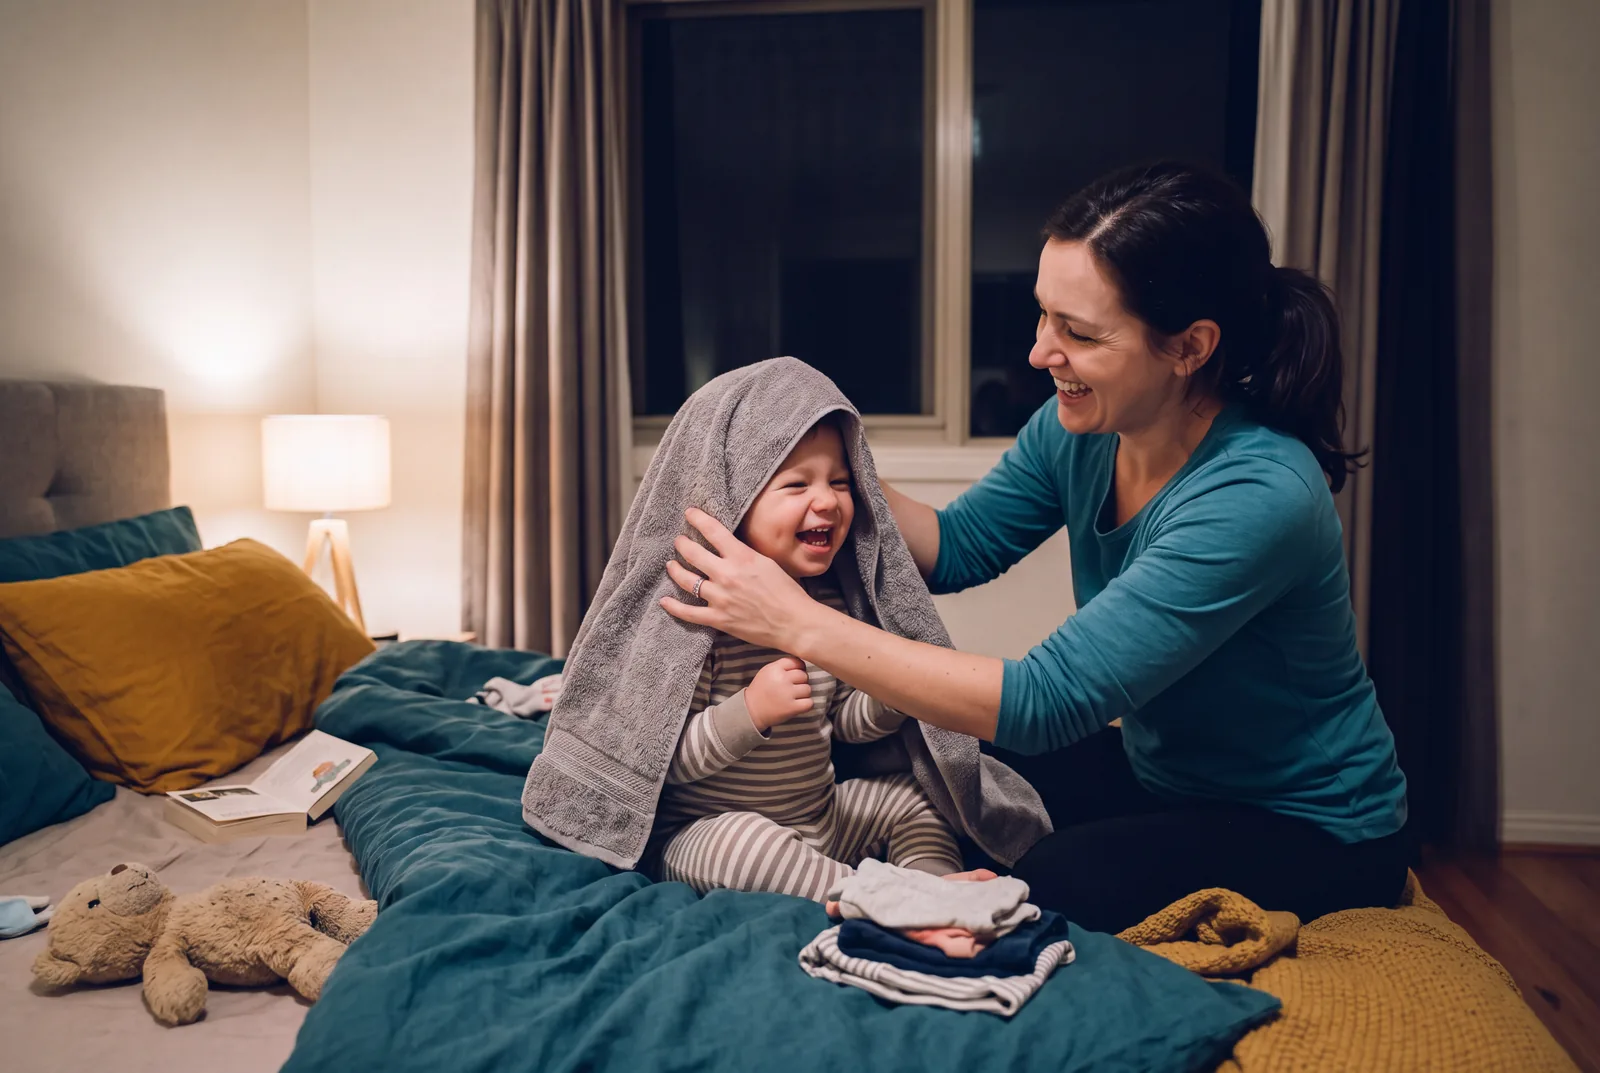
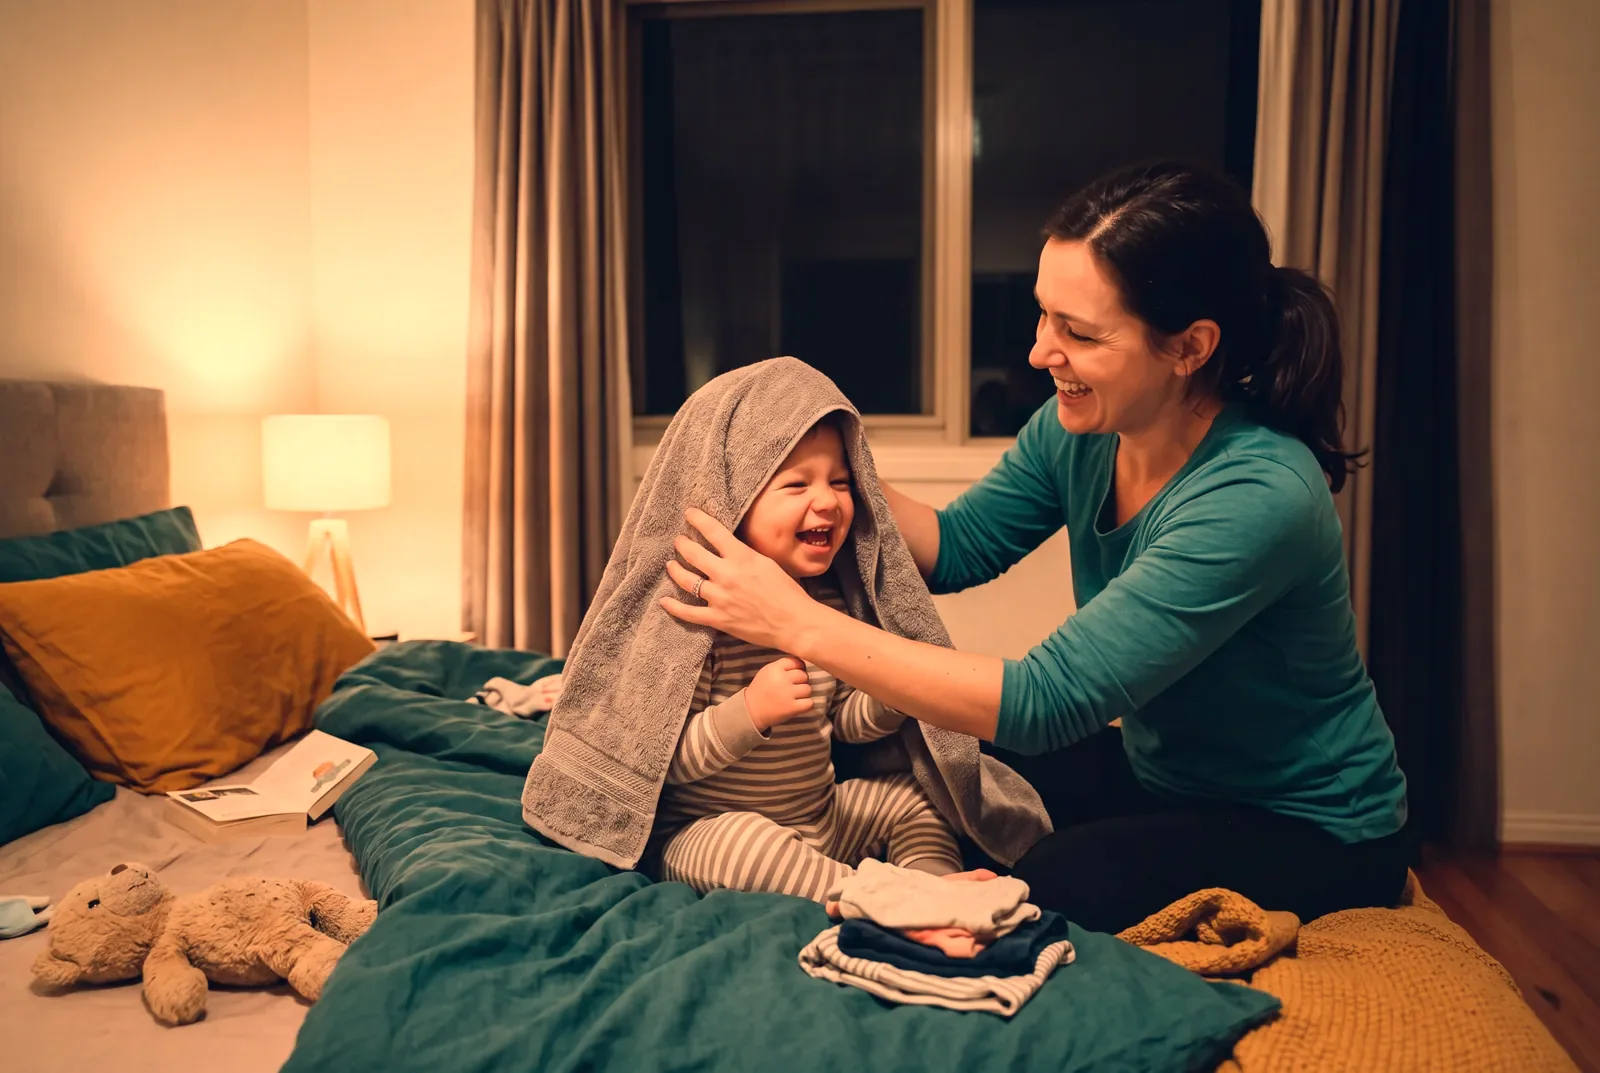
Johnsons belonging redo: big real Raleigh kitchen, ramp fixed, check 15

diff --git a/blog-pipeline/photos-completed/2026-08-21.md b/blog-pipeline/photos-completed/2026-08-21.md
@@ -4,7 +4,7 @@ post_title: Is Johnsons Baby Shampoo Safe? What Is In the Yellow Bottle (2026)
 slug: is-johnsons-baby-shampoo-safe
 status: done
 cameron_processed: false
-note: "Nano Banana Pro 4K. ONE bathroom locked with the hero as reference across hero, villain and turning point. Real Johnsons Baby Shampoo: soft golden-yellow translucent bottle, white cap, dark blue script wordmark, front branding only with no ingredient panel and nobody reading it anywhere in the set. NIGHT throughout the bath beats per the bathtime rule, dark window, and the toddler is never put to bed with wet hair. NO gendered baby language and nothing that reads as a boy set or a girl set: neutral colours on the child in every frame. Villain is the bottle alone on the tub edge, water beaded on it, room drained and empty, lit only by the flat cool overhead light so it reads cold and clinical despite the warm-coloured bottle. TURNING POINT was re-rendered: the first pass came back a dull beige and greige room with a flat, almost sad expression and a bottle that did not match the villain frame, so it was re-run with a deep teal towel on the child, a mustard towel on the parents shoulder, a settled half-smile and the bottle held low and loose by the knee, gaze off across the room, decision already made. Belonging is two clearly distinct women on a kitchen floor properly listening to each other with two toddlers and real mess between them, mugs up out of reach on the counter. Freedom is the warmest frame: towel-drying the toddlers hair on the bed, both laughing, teal and mustard bedding, warm lamplight."
+note: "Nano Banana Pro 4K. ONE bathroom locked with the hero as reference across hero, villain and turning point. Real Johnsons Baby Shampoo: soft golden-yellow translucent bottle, white cap, dark blue script wordmark, front branding only with no ingredient panel and nobody reading it anywhere in the set. NIGHT throughout the bath beats per the bathtime rule, dark window, and the toddler is never put to bed with wet hair. NO gendered baby language and nothing that reads as a boy set or a girl set: neutral colours on the child in every frame. Villain is the bottle alone on the tub edge, water beaded on it, room drained and empty, lit only by the flat cool overhead light so it reads cold and clinical despite the warm-coloured bottle. TURNING POINT was re-rendered: the first pass came back a dull beige and greige room with a flat, almost sad expression and a bottle that did not match the villain frame, so it was re-run with a deep teal towel on the child, a mustard towel on the parents shoulder, a settled half-smile and the bottle held low and loose by the knee, gaze off across the room, decision already made. Belonging is two clearly distinct women on a kitchen floor properly listening to each other with two toddlers and real mess between them, mugs up out of reach on the counter. Freedom is the warmest frame: towel-drying the toddlers hair on the bed, both laughing, teal and mustard bedding, warm lamplight. Belonging redone 2026-10-12 for check 15; it was the only kitchen frame and was a small kitchen with mugs on the shelf and a bare window. New belonging is a wide shot of a big lived-in kitchen in a suburban house in Raleigh, North Carolina: white shaker cabinets, farmhouse sink, stainless dishwasher, gas range with full oven door and a tea towel, stainless French-door fridge with kids drawings, a white island, floor-length cream linen curtains on black rods, the same two women and two toddlers playing with blocks on the wooden floor, socks and toys around. The sink window came out bare, so a matching panel and rod were copied by hand from the other curtains, and the range display painted dark. Hero, villain and turning point (the bathroom) and freedom (the bedroom) kept; turning point and freedom were warmed so the ramp climbs. Measured R/B ramp: villain 0.83, hero 1.28, turning point 1.38, belonging 1.51, freedom 1.72."
 ---
 
 ### isjohnsonsb-hero-v1
